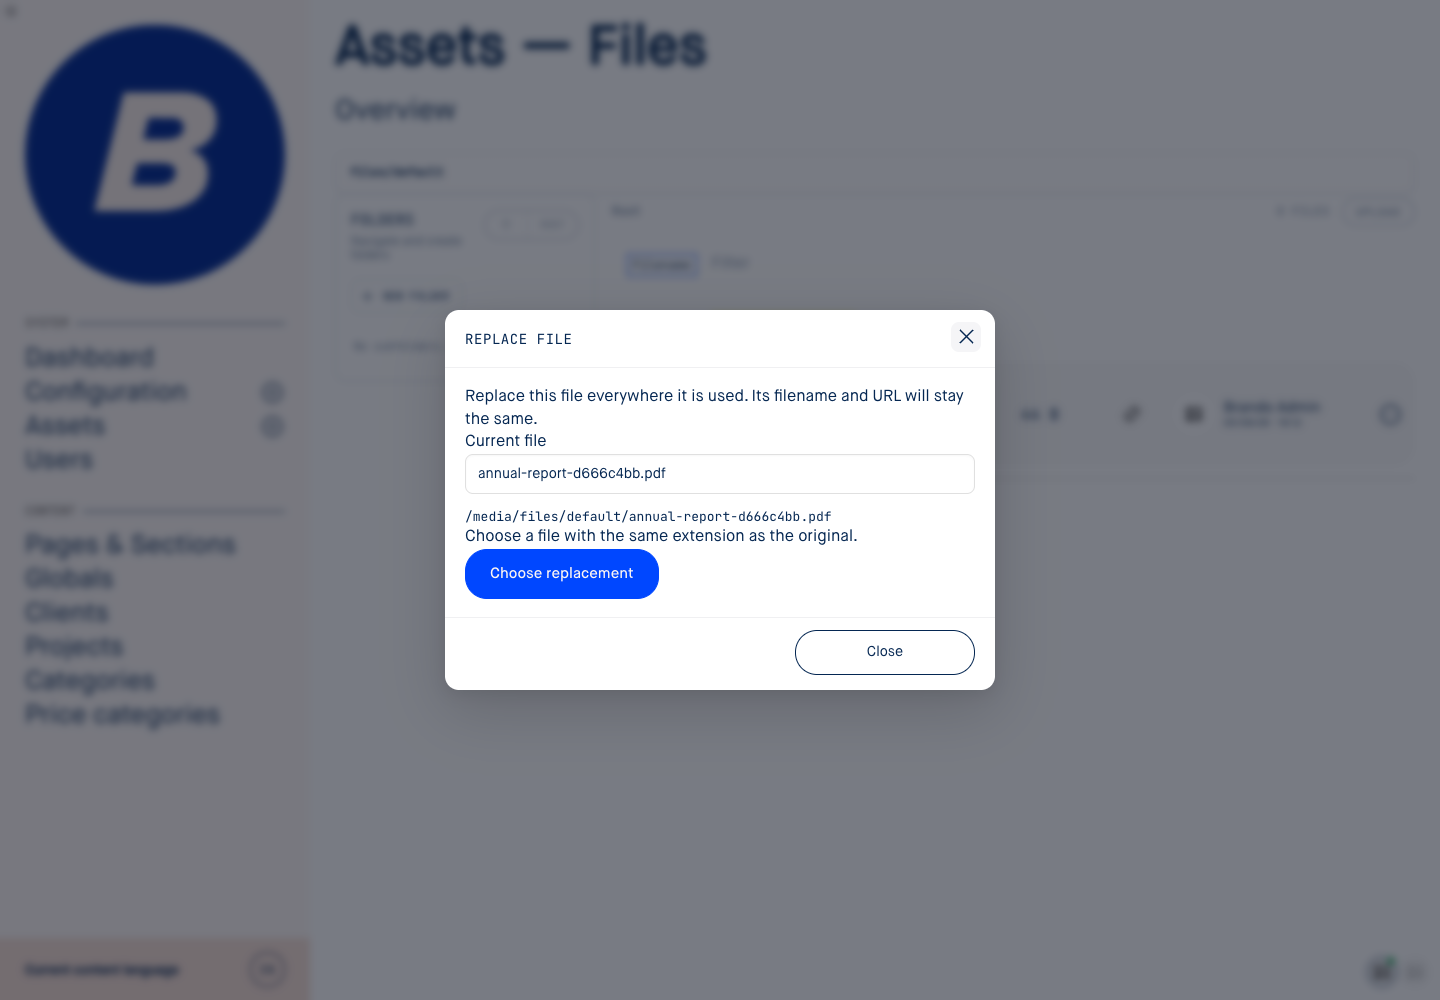
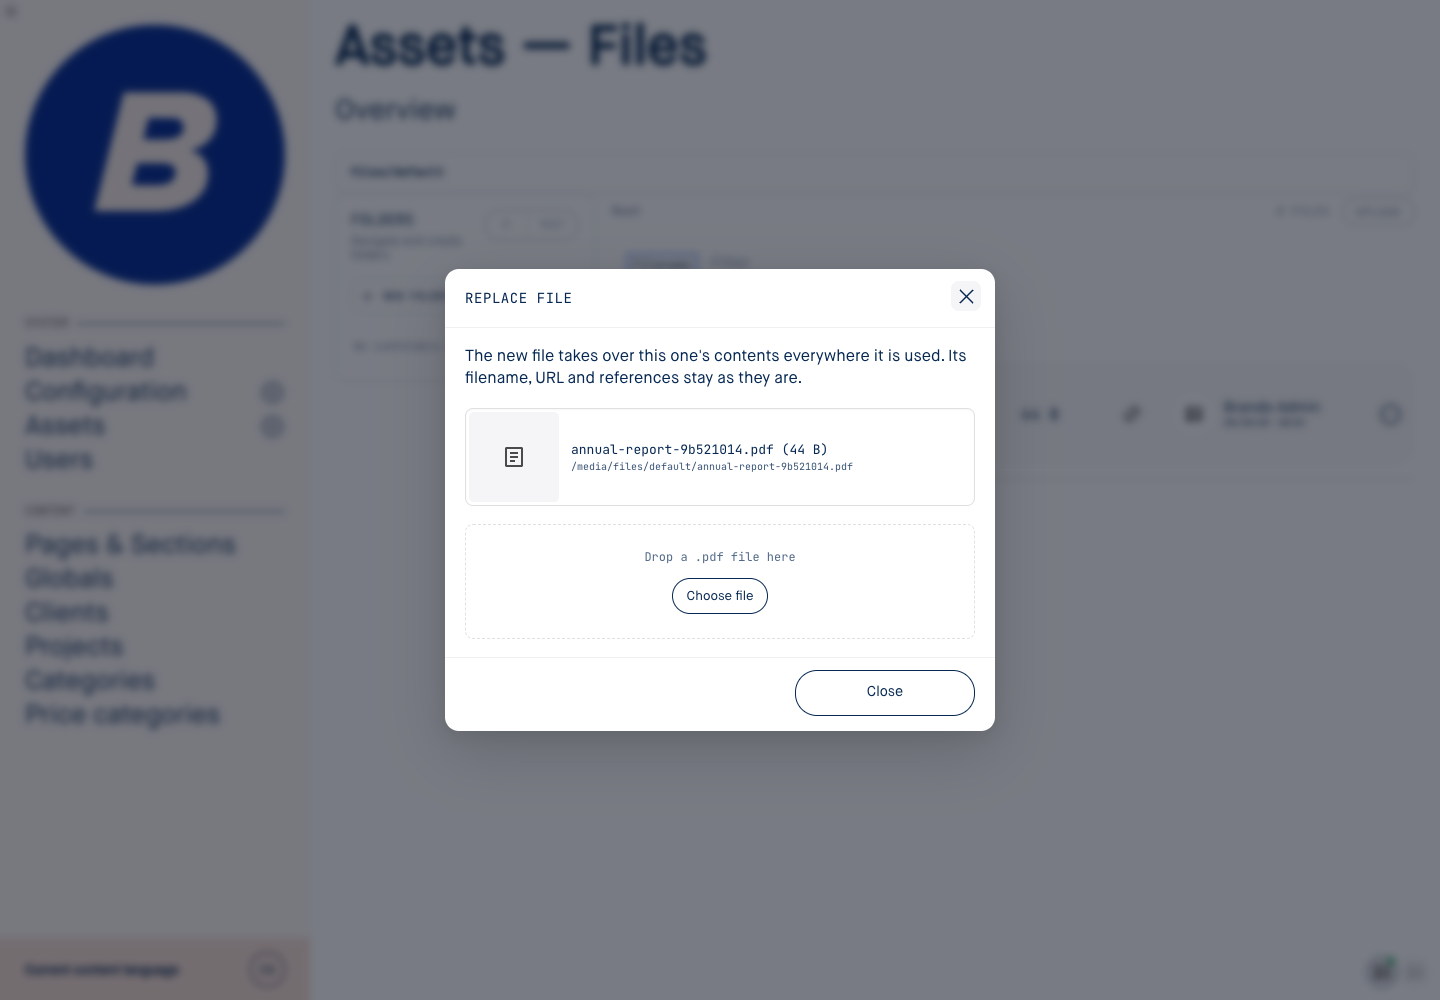
fix(admin): quieten and space the replace-file dialog
The dialog led with a full `primary` button, which reads as the confirming
action. It is not: choosing a file only opens the picker, and nothing is
written until one comes back. It is a `secondary small` now, inside a drop
zone — the UploadTrigger hook already accepts drops, so the zone does the
communicating and the button can be quiet.

The current file was a readonly `<input class="text">` with its URL orphaned
in a paragraph below, so it looked editable and was not, and the three prose
lines around it ran together with no rhythm. It uses the same
`.asset-field--single` card the file form field uses, filename, size and URL
in one place, with 18px above and below it.

`.file-info` centres its lines here: the shared card assumes a trailing action
button and would otherwise push the two lines apart.

Claude-Session: https://claude.ai/code/session_016f8YajqmhZdUnjQpcxPHHw

Changed region(s): [[0.3125, 0.341, 0.6562, 0.62], [0.2812, 0.62, 0.7188, 0.744], [0.2812, 0.248, 0.7188, 0.31]]

diff --git a/assets/css/components/Modal.css b/assets/css/components/Modal.css
@@ -607,3 +607,85 @@
     }
   }
 }
+
+/* File replacement dialog.
+
+   The current file is shown with the same card the file form field uses
+   (`.asset-field--single`), so the thing being replaced looks like the thing
+   the editor already knows. The picker is a drop zone rather than a button —
+   the UploadTrigger hook accepts drops on it — which leaves the button free to
+   be quiet. A `primary` here read as the confirming action, which it is not:
+   nothing is written until a file is chosen. */
+#file-replacement-modal {
+  .replacement-intro {
+    margin: 0;
+  }
+
+  .replacement-current {
+    @space margin-y 18px;
+    width: 100%;
+
+    .file-info {
+      /* The card's default `space-between` assumes a trailing action button.
+         There is none here, so the two lines would be pushed apart. */
+      justify-content: center;
+      gap: 4px;
+      min-width: 0;
+    }
+
+    .name {
+      font-weight: 500;
+    }
+
+    /* A media URL is long and has no spaces the browser will break on. */
+    .updated {
+      overflow-wrap: anywhere;
+    }
+  }
+
+  .replacement-dropzone {
+    display: flex;
+    flex-direction: column;
+    align-items: center;
+    gap: 12px;
+    padding: 24px 20px;
+    border: 1px dashed var(--brando-input-border);
+    border-radius: var(--brando-input-radius);
+    background-color: var(--brando-color-input);
+    text-align: center;
+    cursor: pointer;
+    transition: border-color 0.2s ease, background-color 0.2s ease;
+
+    &:hover {
+      border-color: var(--brando-color-blue);
+    }
+
+    /* The same tint the gallery drop zone uses, and for the same reason: it has
+       to read as "let go here" in both themes, which a themed background
+       variable cannot do — `--brando-color-input` and `--brando-color-peach`
+       resolve to the same dark value in dark mode. */
+    &.dragging {
+      border-color: var(--brando-color-blue);
+      background-color: #cde7ec;
+      cursor: cell;
+
+      .replacement-prompt {
+        color: var(--brando-color-dark);
+        opacity: 1;
+      }
+    }
+
+    .replacement-prompt {
+      @font mono;
+      font-size: 12px;
+      margin: 0;
+      opacity: 0.7;
+    }
+
+    /* `%btnSecondary` gives its first button a 15px top margin, for stacked
+       form buttons. Inside a centred flex column it just breaks the rhythm. */
+    button.secondary:first-of-type {
+      margin-top: 0;
+    }
+  }
+}

diff --git a/e2e/e2e/playwright/tests/assets/files.spec.js b/e2e/e2e/playwright/tests/assets/files.spec.js
@@ -21,7 +21,8 @@ async function uploadFile(page) {
   await page.getByRole('button', { name: 'Replace file', exact: true }).click()
   const dialog = page.getByRole('dialog', { name: 'Replace file', exact: true })
   await expect(dialog).toBeVisible()
-  await expect(dialog.getByLabel('Current file')).toHaveValue(filename)
+  await expect(dialog.locator('.replacement-current .name')).toContainText(filename)
+  await expect(dialog.locator('.replacement-current .updated')).toHaveText(url)
   return { row, id, url, dialog, original }
 }
 
